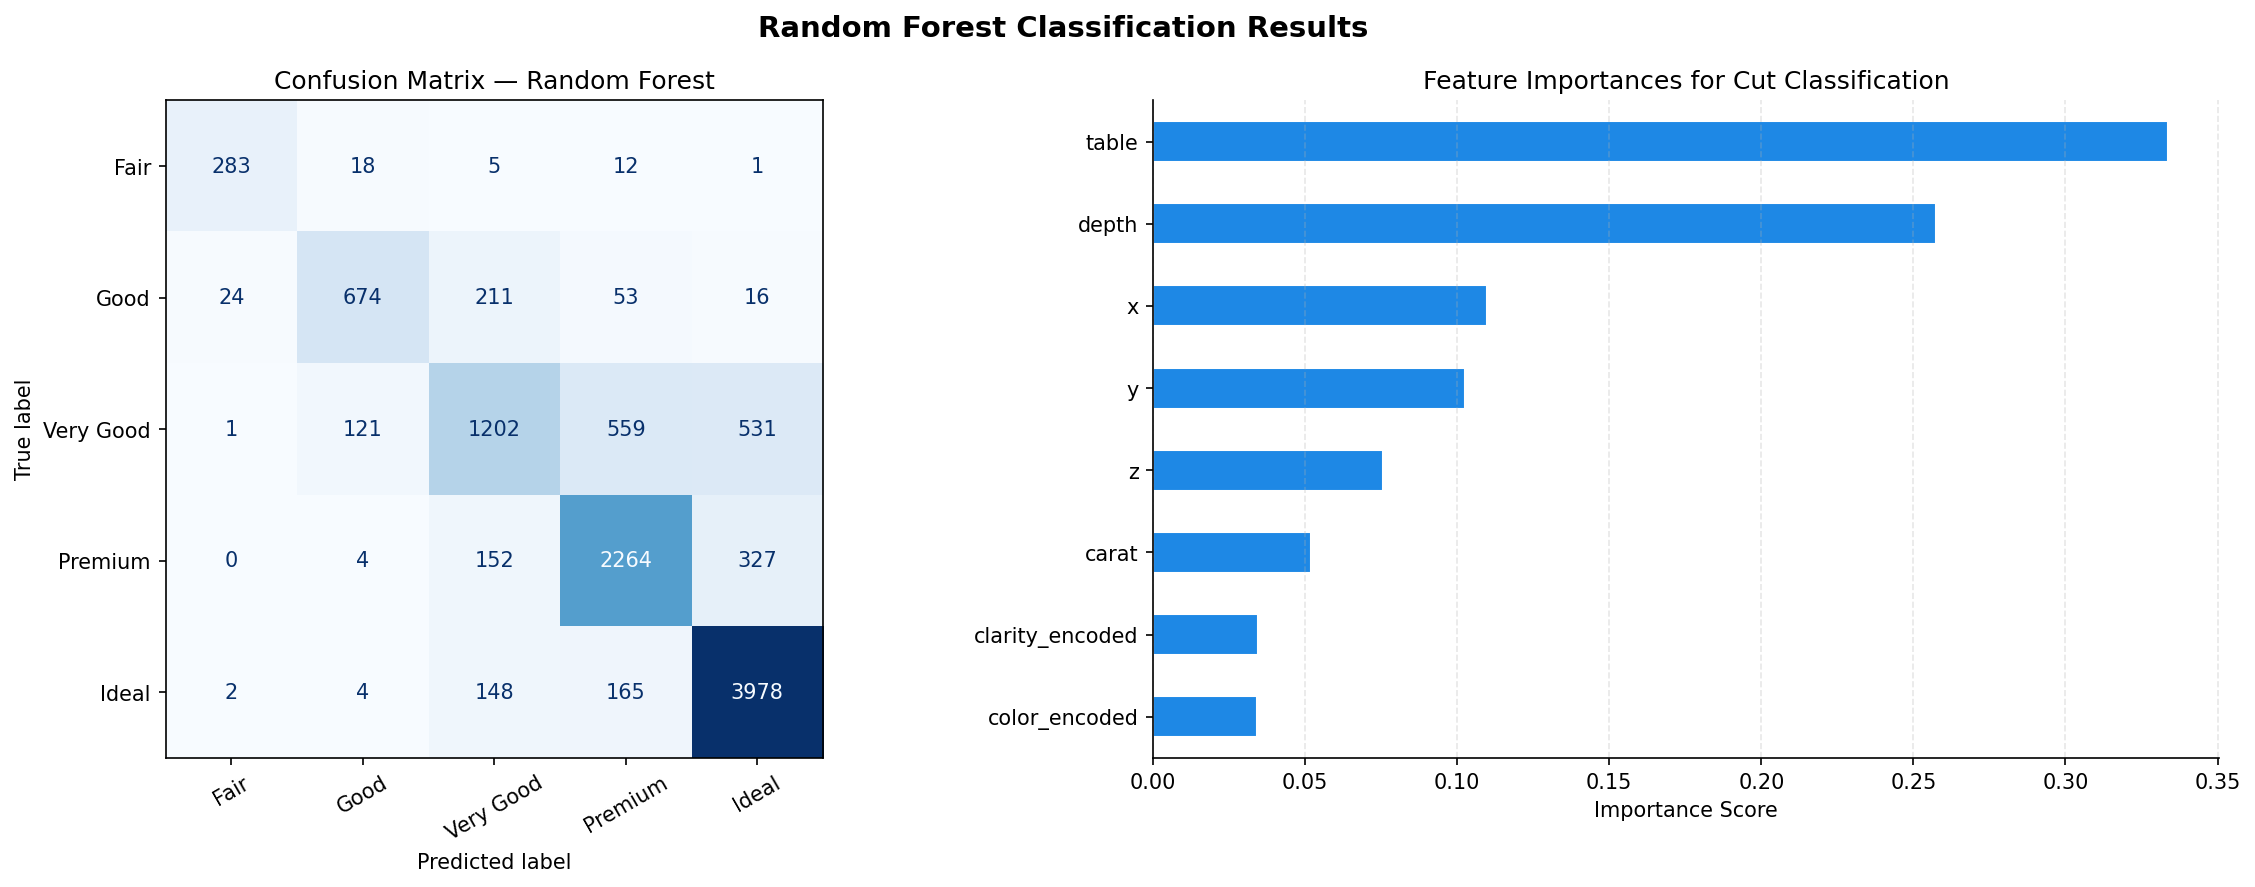
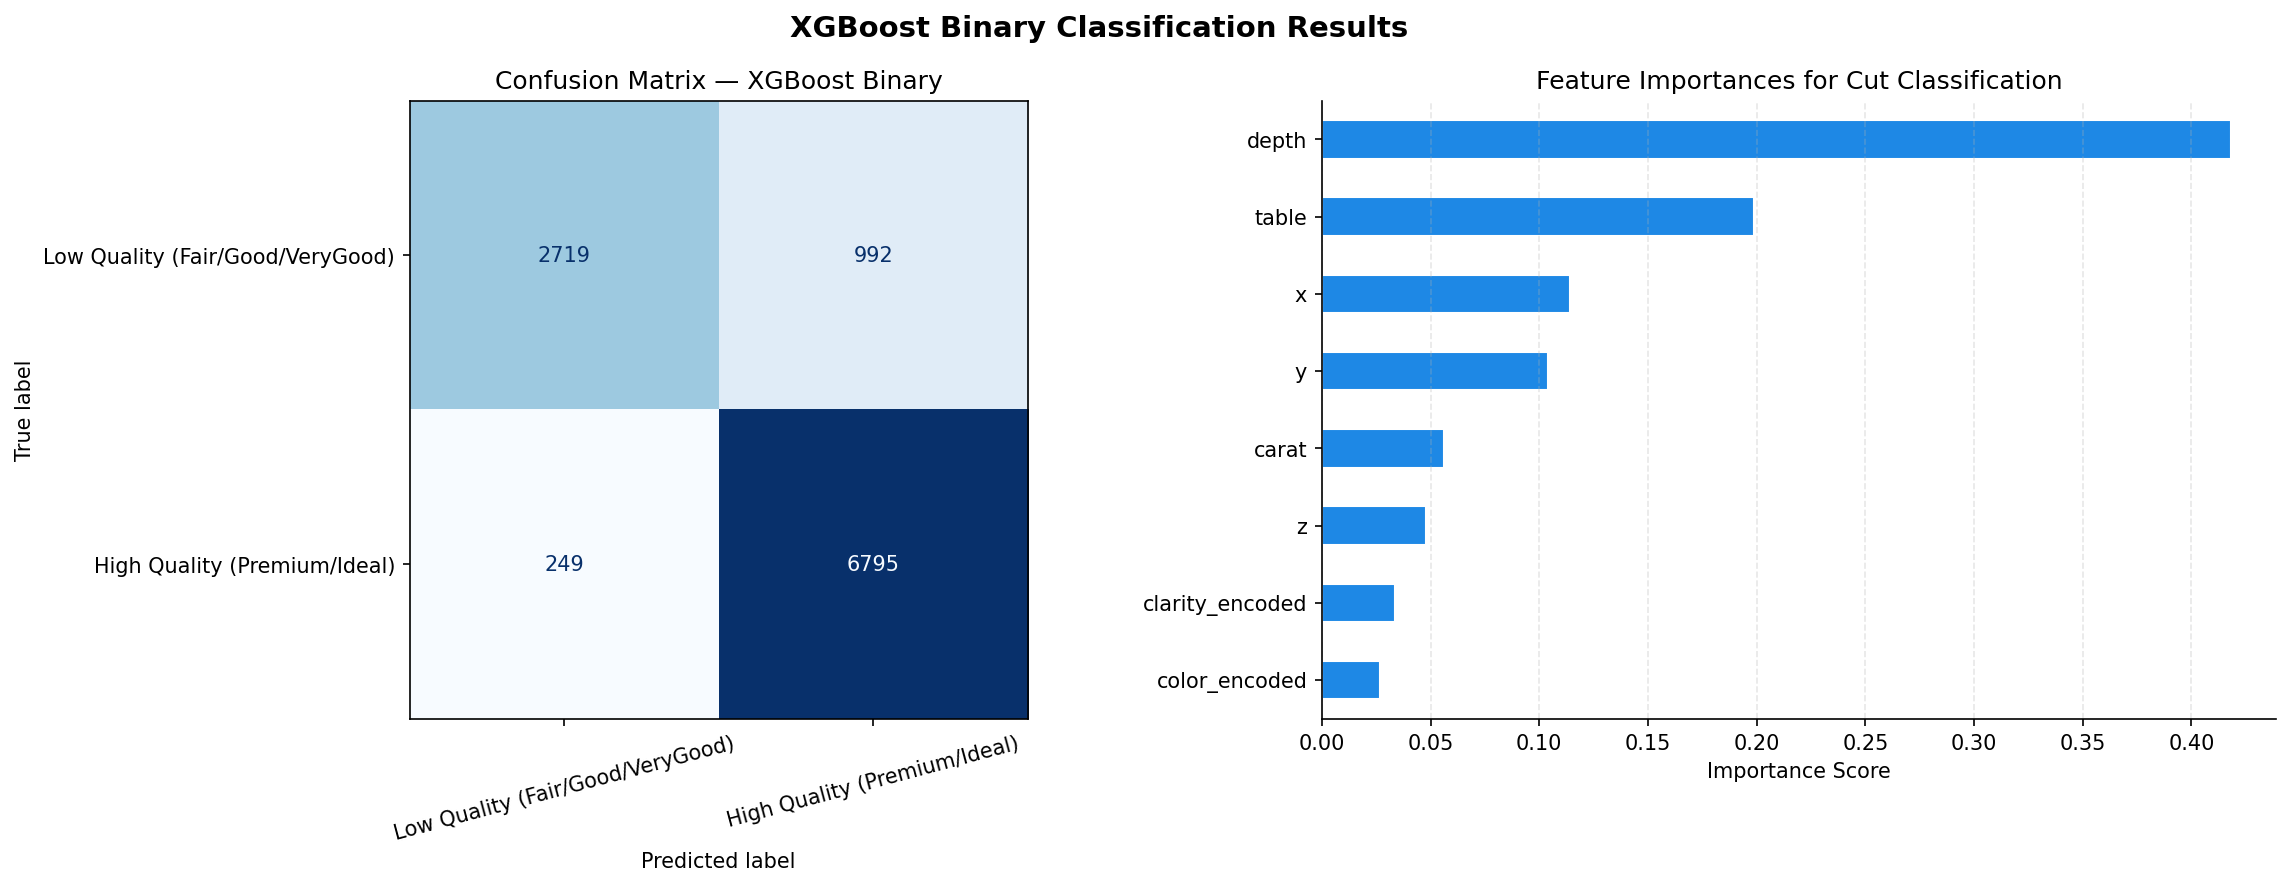
Update classification: Random Forest → XGBoost Binary (88.46%)

diff --git a/dashboard/app.py b/dashboard/app.py
@@ -9,11 +9,11 @@ import plotly.express as px
 import plotly.graph_objects as go
 from sklearn.cluster import KMeans
 from sklearn.preprocessing import StandardScaler
-from sklearn.ensemble import RandomForestClassifier
 from sklearn.linear_model import Ridge
 from sklearn.preprocessing import PolynomialFeatures
 from sklearn.svm import OneClassSVM
 from sklearn.decomposition import PCA
+from xgboost import XGBClassifier
 import warnings
 warnings.filterwarnings('ignore')
 
@@ -126,18 +126,25 @@ def train_all_models(_df, _df_scaled):
     ocsvm.fit(X_anom)
     pred_anom   = ocsvm.predict(X_anom)
 
-    # Classification
+    # Classification — XGBoost Binary
     features_clf = ['carat', 'depth', 'table', 'x', 'y', 'z',
                     'color_encoded', 'clarity_encoded']
-    X_clf = _df_scaled[features_clf].values
-    y_clf = _df['cut_encoded'].values
-    rf    = RandomForestClassifier(n_estimators=500, max_depth=20,
-                                   min_samples_split=5, random_state=42, n_jobs=-1)
-    rf.fit(X_clf, y_clf)
+    X_clf   = _df_scaled[features_clf].values
+    y_binary = (_df['cut_encoded'] >= 3).astype(int)  # Premium=3, Ideal=4 → High Quality=1
+    xgb = XGBClassifier(
+        n_estimators=500,
+        learning_rate=0.05,
+        max_depth=6,
+        subsample=0.8,
+        colsample_bytree=0.8,
+        eval_metric='logloss',
+        random_state=42,
+        n_jobs=-1)
+    xgb.fit(X_clf, y_binary)
 
-    return km, cluster_labels_arr, poly, ridge, X_pca, pred_anom, rf
+    return km, cluster_labels_arr, poly, ridge, X_pca, pred_anom, xgb
 
-km, cluster_labels_arr, poly, ridge, X_pca, pred_anom, rf = train_all_models(df, df_scaled)
+km, cluster_labels_arr, poly, ridge, X_pca, pred_anom, xgb = train_all_models(df, df_scaled)
 
 # Add results to df
 df = df.copy()
@@ -225,7 +232,7 @@ with tab1:
     • 🔵 **Clustering** — How diamonds group into market segments
     • 📈 **Price Predictor** — Enter any diamond details to get an estimated price
     • 🔴 **Anomaly Detection** — Diamonds with unusual or suspicious pricing
-    • 🌲 **Cut Predictor** — Predict the cut grade from physical measurements
+    • 🌲 **Cut Predictor** — Predict cut quality (High/Low) from physical measurements
     • 💡 **Business Insights** — Key findings and recommendations
     """)
 
@@ -607,29 +614,29 @@ with tab4:
 # ============================================================
 
 with tab5:
-    st.header("🌲 Cut Grade Predictor")
-    st.markdown("**Goal:** Predict the cut grade of a diamond from its physical measurements.")
+    st.header("🌲 Cut Quality Predictor")
+    st.markdown("**Goal:** Predict whether a diamond is High Quality (Premium/Ideal) or Low Quality (Fair/Good/Very Good) from its physical measurements.")
     st.markdown("---")
 
     st.info("""
     **How to use this tool:**
     1. Enter the diamond's physical measurements using the sliders below
     2. Select the Color and Clarity grades
-    3. The model instantly predicts the **Cut Grade**
-    4. The confidence chart shows how certain the model is for each grade
+    3. The model instantly predicts the **Cut Quality** (High or Low)
+    4. The confidence chart shows how certain the model is
 
-    **Model:** Random Forest (500 trees) | **Accuracy: 78.11%**
+    **Model:** XGBoost (Binary Classification) | **Accuracy: 88.46%**
 
-    **Why not 100% accurate?**
-    Cut grade is not fully determined by measurements alone.
-    It also depends on the cutter's individual skill and company standards.
-    Very Good and Premium grades have nearly identical dimensions — even experts sometimes disagree!
+    **Why binary classification?**
+    Grouping cut grades into High Quality (Premium/Ideal) vs Low Quality (Fair/Good/Very Good)
+    significantly improves model performance and provides clearer business value.
+    XGBoost captures non-linear relationships better than traditional models.
     """)
 
     st.markdown("---")
 
     features_clf = ['carat', 'depth', 'table', 'x', 'y', 'z', 'color_encoded', 'clarity_encoded']
-    cut_labels   = ['Fair', 'Good', 'Very Good', 'Premium', 'Ideal']
+    binary_labels = ['Low Quality (Fair/Good/Very Good)', 'High Quality (Premium/Ideal)']
 
     col1, col2 = st.columns([1, 1])
 
@@ -675,36 +682,34 @@ with tab5:
             ]
         )[:, [0, 1, 2, 3, 4, 5, 7, 8]]
 
-        pred_cut       = rf.predict(input_c_scaled)[0]
-        prob_cut       = rf.predict_proba(input_c_scaled)[0]
-        predicted_label = cut_labels[pred_cut]
+        pred_cut  = xgb.predict(input_c_scaled)[0]
+        prob_cut  = xgb.predict_proba(input_c_scaled)[0]
+        predicted_label = binary_labels[pred_cut]
 
         st.markdown("---")
-        st.success(f"✂️ Predicted Cut Grade: **{predicted_label}**")
-        st.markdown(f"*{CUT_GUIDE[predicted_label]}*")
+        st.success(f"✂️ Predicted Cut Quality: **{predicted_label}**")
 
     with col2:
-        st.markdown("#### Model Confidence per Cut Grade")
-        prob_df = pd.DataFrame({'Cut Grade': cut_labels, 'Confidence': prob_cut})
-        fig = px.bar(prob_df, x='Cut Grade', y='Confidence',
-                     color='Cut Grade',
+        st.markdown("#### Model Confidence")
+        prob_df = pd.DataFrame({'Cut Quality': binary_labels, 'Confidence': prob_cut})
+        fig = px.bar(prob_df, x='Cut Quality', y='Confidence',
+                     color='Cut Quality',
                      color_discrete_sequence=px.colors.qualitative.Set2)
         fig.update_layout(yaxis_tickformat='.0%',
                           yaxis_title="Confidence (%)",
-                          xaxis_title="Cut Grade",
+                          xaxis_title="Cut Quality",
                           showlegend=False,
                           plot_bgcolor='rgba(0,0,0,0)')
         st.plotly_chart(fig, use_container_width=True)
         st.markdown("""
         **How to read this chart:**
-        The **tallest bar** = the model's predicted cut grade.
+        The **tallest bar** = the model's predicted cut quality.
         A bar close to 100% = the model is very confident.
-        Multiple bars at similar height = the model is uncertain between those grades.
-        Very Good and Premium often show similar confidence — their dimensions overlap.
+        Two bars at similar height = the model is uncertain between the two classes.
         """)
 
         st.markdown("#### What Features Drive the Cut Prediction?")
-        importances = pd.Series(rf.feature_importances_, index=features_clf)
+        importances = pd.Series(xgb.feature_importances_, index=features_clf)
         feature_names = {
             'carat':           '⚖️ Carat',
             'depth':           '📏 Depth %',
@@ -724,7 +729,7 @@ with tab5:
                           plot_bgcolor='rgba(0,0,0,0)')
         st.plotly_chart(fig, use_container_width=True)
         st.markdown("""
-        **Table % and Depth %** are the most important features for predicting cut grade.
+        **Table % and Depth %** are the most important features for predicting cut quality.
         They directly define the geometry of how a diamond is cut.
         Color and Clarity have almost no impact on cut prediction — as expected.
         """)
@@ -812,17 +817,17 @@ with tab6:
 
     results_df = pd.DataFrame({
         'Technique':      ['Clustering',       'Regression',         'Anomaly Detection',    'Classification'],
-        'Algorithm':      ['K-Means (k=4)',    'Polynomial + Ridge', 'One-Class SVM + PCA',  'Random Forest (500 trees)'],
-        'Key Metric':     ['Silhouette 0.2182','R² = 0.9858',        '538 anomalies (1%)',   'Accuracy 78.11%'],
-        'Business Goal':  ['4 segments ✅',    'R² > 0.90 ✅',       'Detect anomalies ✅',  'Accuracy > 85% ❌']
+        'Algorithm':      ['K-Means (k=4)',    'Polynomial + Ridge', 'One-Class SVM + PCA',  'XGBoost (Binary)'],
+        'Key Metric':     ['Silhouette 0.2182','R² = 0.9858',        '538 anomalies (1%)',   'Accuracy 88.46%'],
+        'Business Goal':  ['4 segments ✅',    'R² > 0.90 ✅',       'Detect anomalies ✅',  'Accuracy > 85% ✅']
     })
     st.dataframe(results_df, use_container_width=True, hide_index=True)
 
     st.markdown("""
-    **Note on Classification (78.11%):**
-    Cut grade depends on cutter skill, not just measurements.
-    Very Good and Premium grades overlap in feature space — even experts sometimes disagree.
-    78.11% is considered strong performance for this specific problem.
+    **Note on Classification (88.46%):**
+    Binary classification (High Quality vs Low Quality) with XGBoost achieved strong performance.
+    High Quality diamonds (Premium/Ideal) are detected with 96% recall — critical for retail pricing.
+    This model is suitable for automated diamond quality screening and retail decision support systems.
     """)
 
     st.markdown("---")

diff --git a/README.md b/README.md
@@ -49,7 +49,7 @@ The project analyzes **53,772 real diamonds** to answer key business questions:
 | Clustering | K-Means (k=4) | Group diamonds into market segments |
 | Regression | Polynomial + Ridge | Predict diamond price (R² = 0.9858) |
 | Anomaly Detection | One-Class SVM + PCA | Detect unusually priced diamonds |
-| Classification | Random Forest (500 trees) | Predict cut grade (Accuracy = 78.11%) |
+| Classification | XGBoost (Binary) | Predict cut quality High/Low (Accuracy = 88.46%) |
 
 ---
 ## Project Structure
@@ -119,7 +119,7 @@ Open VS Code → open `notebooks/diamonds_analysis.ipynb`
 | Clustering | 4 market segments with interactive charts |
 | Price Predictor | Enter any diamond details → get estimated price |
 | Anomaly Detection | 538 unusual diamonds with PCA visualization |
-| Cut Predictor | Predict cut grade from physical measurements |
+| Cut Predictor | Predict cut quality (High/Low) from physical measurements |
 | Business Insights | Top 3 findings and full model performance |
 
 **Global Filters:** Cut quality · Price range · Carat range
@@ -133,7 +133,7 @@ Open VS Code → open `notebooks/diamonds_analysis.ipynb`
 | Clustering | K-Means k=4 | Silhouette Score | 0.2182 | 4 segments ✅ |
 | Regression | Polynomial + Ridge | R² | 0.9858 | R² > 0.90 ✅ |
 | Anomaly Detection | One-Class SVM + PCA | Anomalies found | 538 (1%) | Detected ✅ |
-| Classification | Random Forest 500 trees | Accuracy | 78.11% | > 85% ❌ |
+| Classification | XGBoost (Binary) | Accuracy | 88.46% | > 85% ✅ |
 
 ---
 
@@ -176,6 +176,7 @@ numpy
 matplotlib
 seaborn
 scikit-learn
+xgboost
 plotly
 streamlit
 jupyter